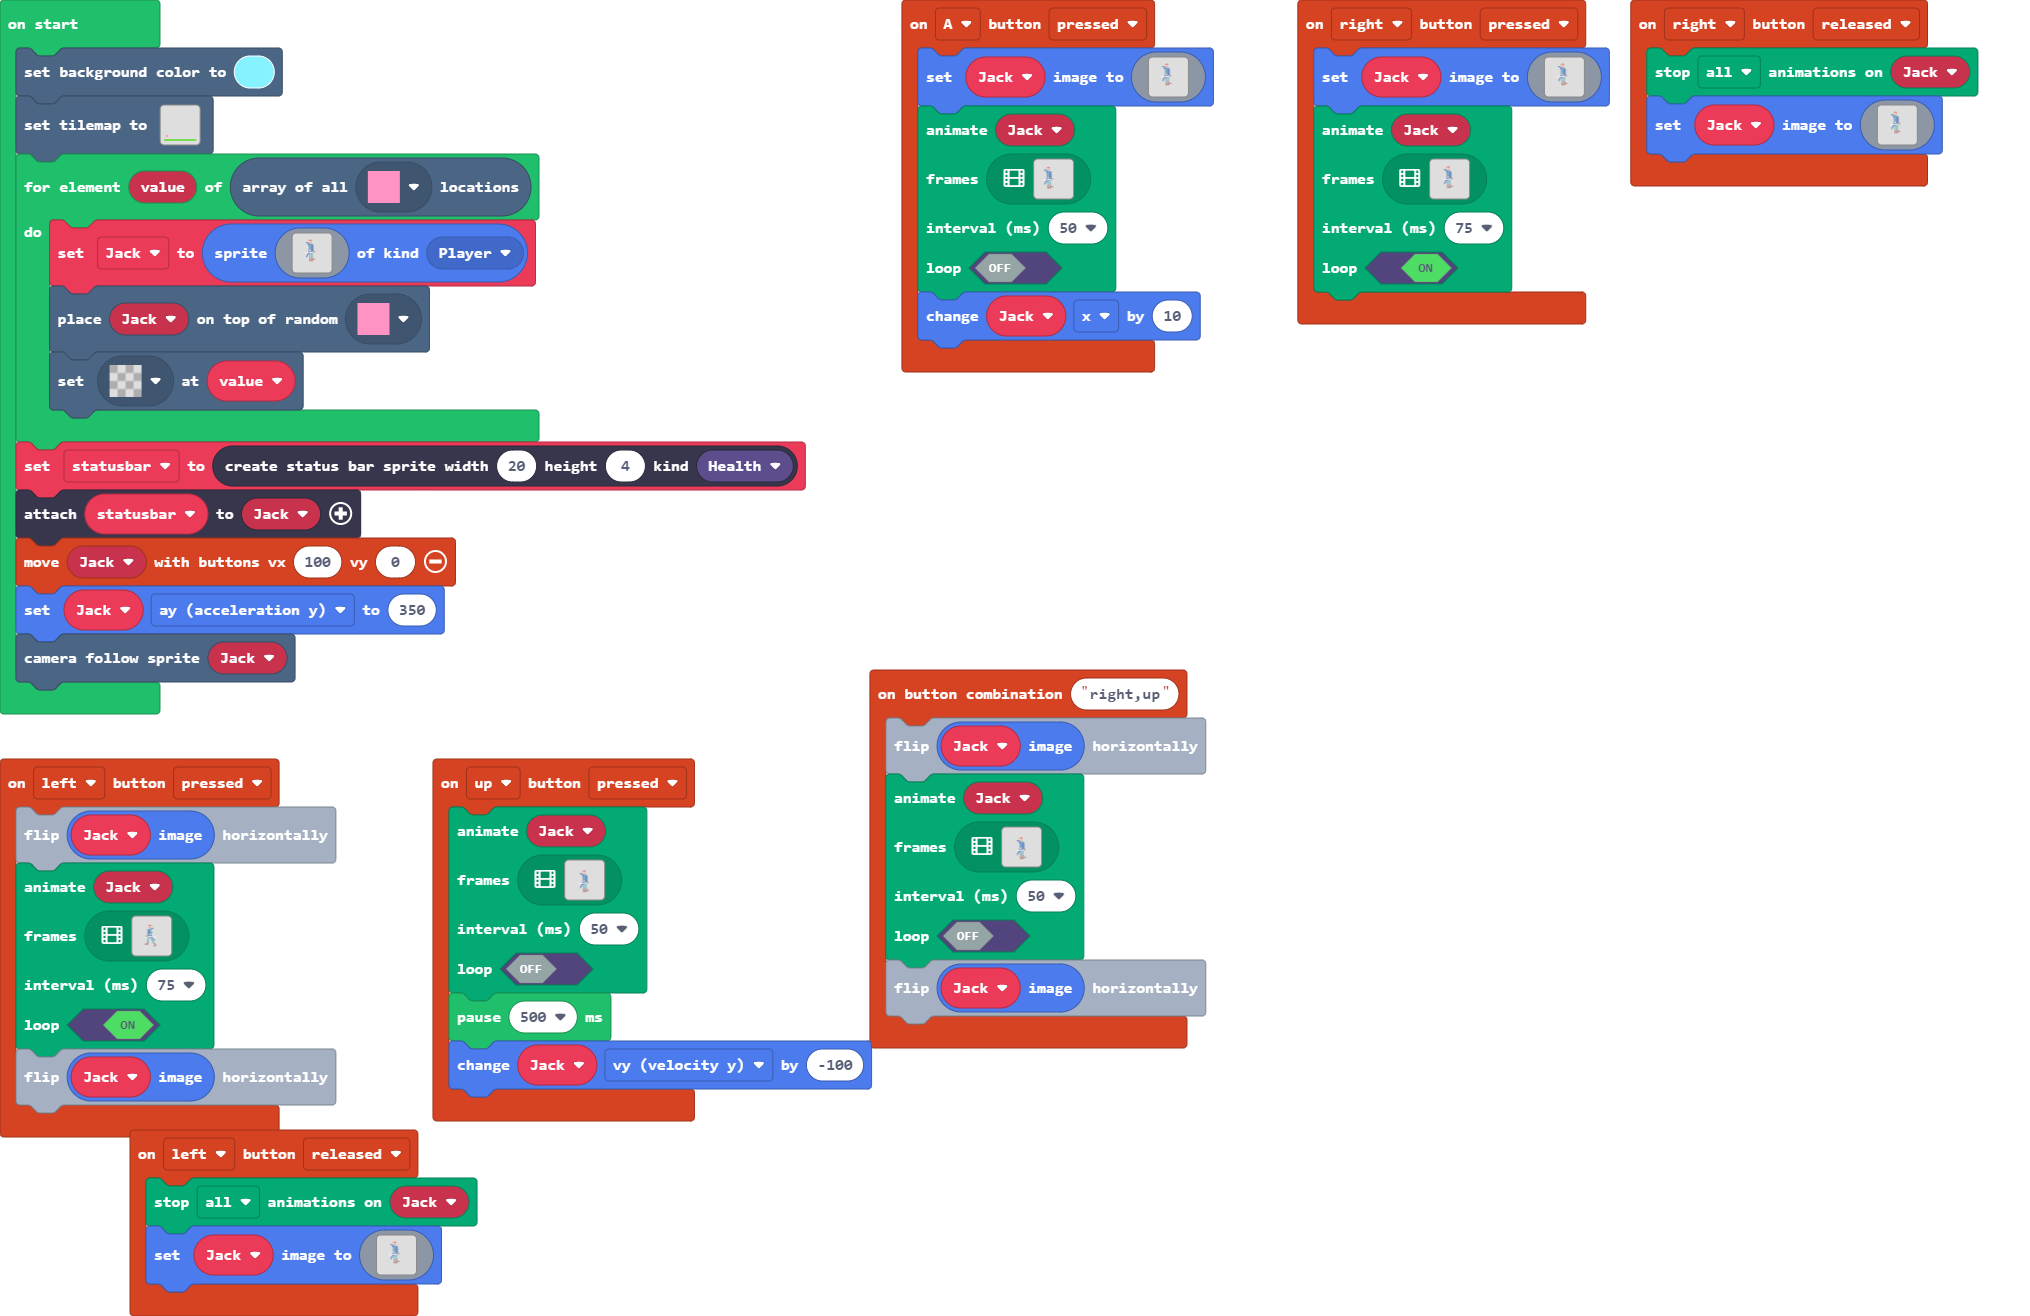
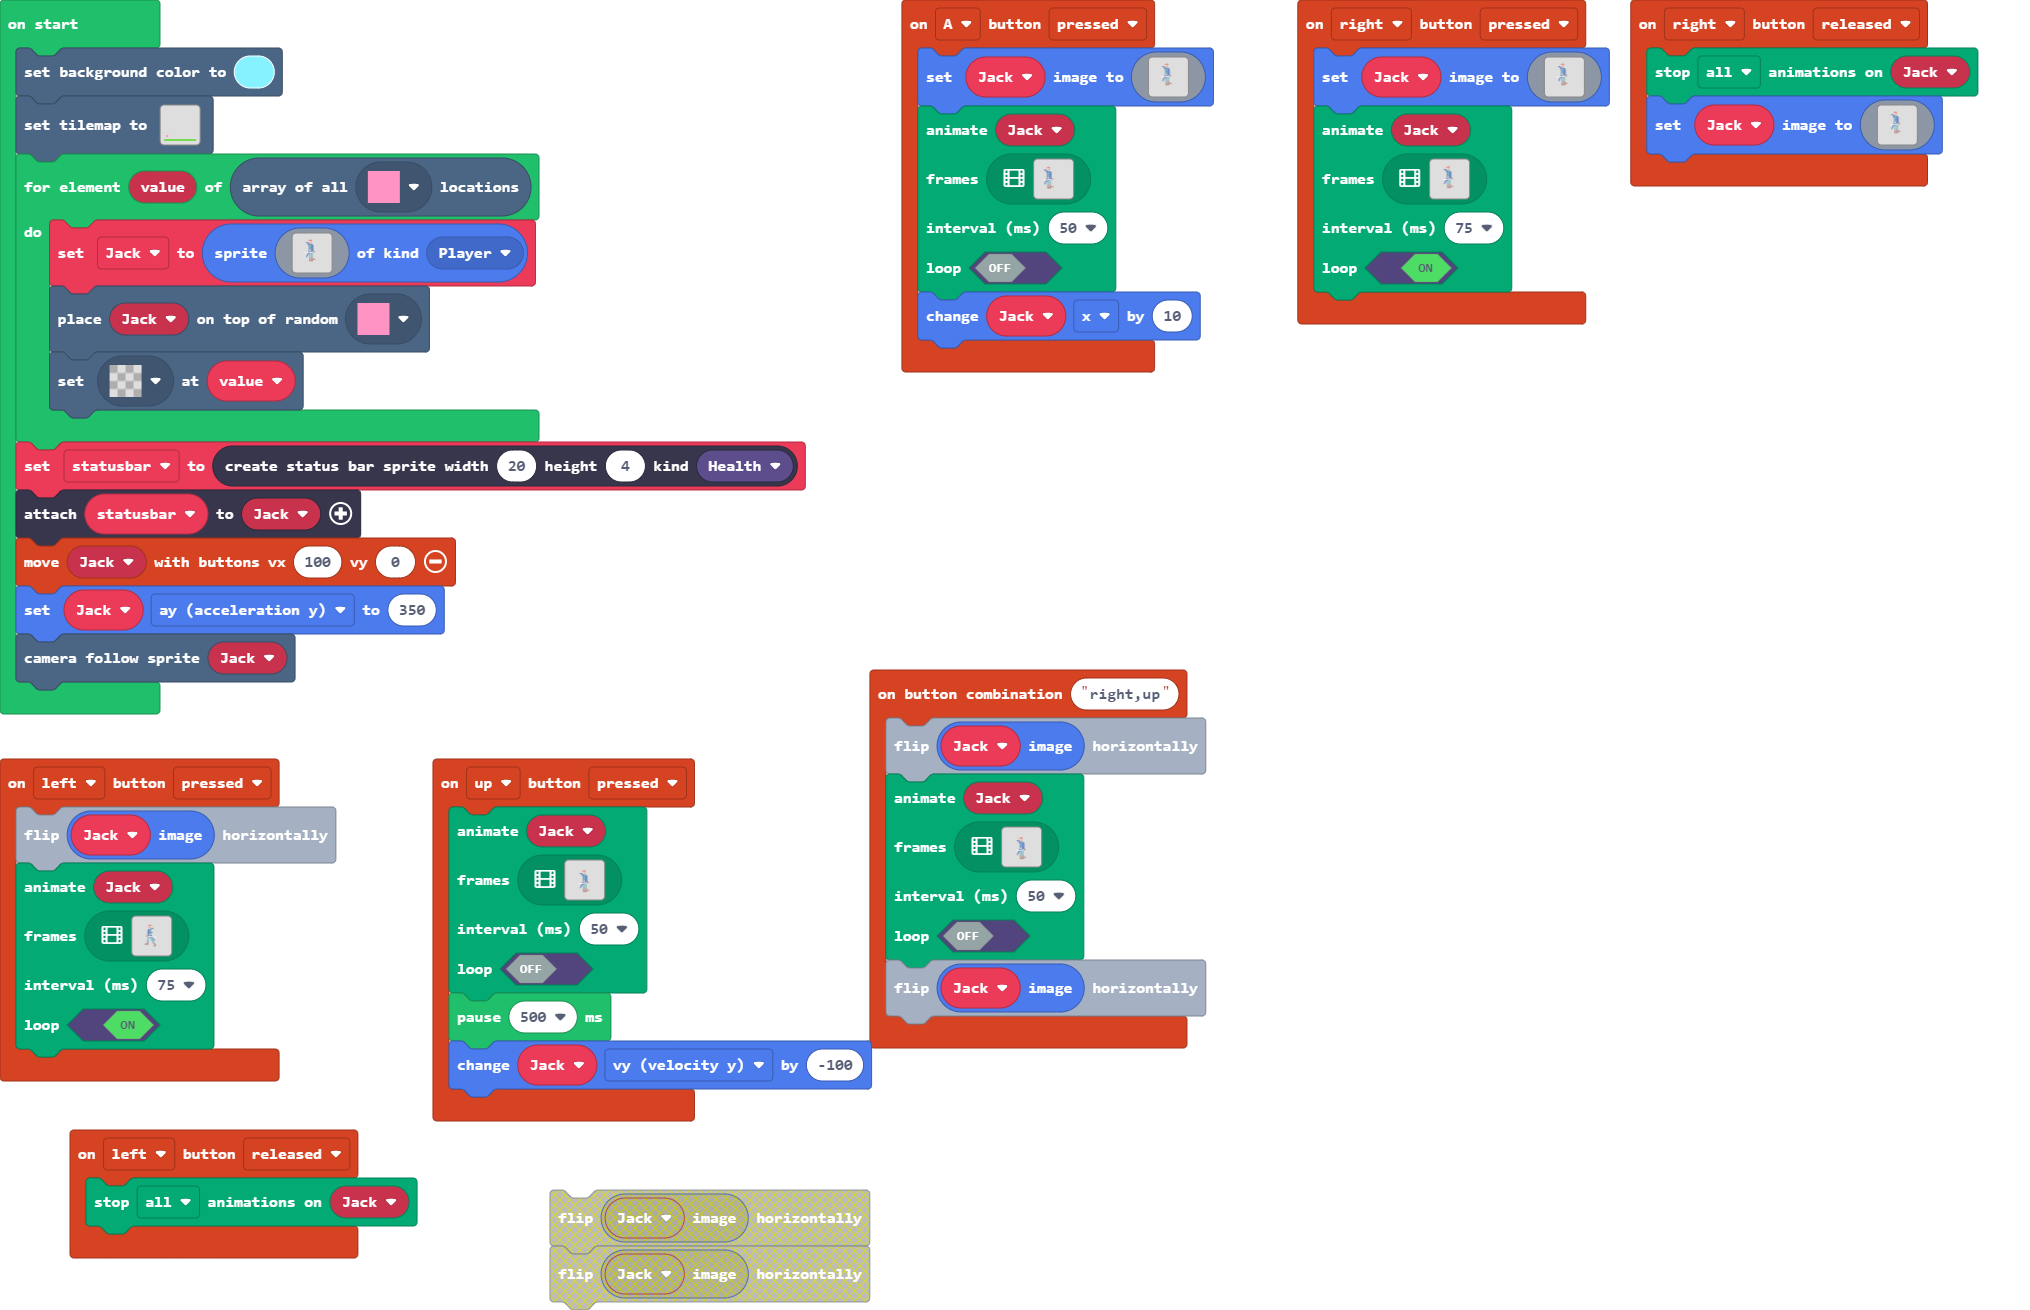
Update pxt.json, main.blocks, main.ts, main.py

diff --git a/main.ts b/main.ts
@@ -3373,7 +3373,6 @@ controller.left.onEvent(ControllerButtonEvent.Pressed, function () {
     75,
     true
     )
-    Jack.image.flipX()
 })
 controller.right.onEvent(ControllerButtonEvent.Released, function () {
     animation.stopAnimation(animation.AnimationTypes.All, Jack)
@@ -3457,83 +3456,6 @@ controller.right.onEvent(ControllerButtonEvent.Released, function () {
 })
 controller.left.onEvent(ControllerButtonEvent.Released, function () {
     animation.stopAnimation(animation.AnimationTypes.All, Jack)
-    Jack.setImage(img`
-        ..................................................
-        ..................................................
-        ..................................................
-        ..................................................
-        ..................................................
-        ..................................................
-        ....................2222..........................
-        .................2.222222.........................
-        ..................2222222.........................
-        .................2.dddd8d.........................
-        ...................dddddd.........................
-        ...................ddd444.........................
-        ............8888...444444.........................
-        ...........888888...4444..........................
-        ...........8..8888...ddd..........................
-        ...............88888.ddd..........................
-        ................8888888888........................
-        ................888886688888......................
-        ................888866668888......................
-        .................888666688888.....................
-        ..................88666688888.....................
-        ..................88666888888.....................
-        ..................88666888888.....................
-        ..................88666888888.....................
-        ..................88666888888.....................
-        ..................88666888888.....................
-        ..................88666888888.....................
-        ..................88666888888.....................
-        ..................88666888888.....................
-        ..................88d6d888888.....................
-        ..................88ddd888888.....................
-        ..................8dddd888888.....................
-        .................88dddd888888ee...................
-        .................888ddd88888e..e..................
-        .................88888888111eeee..................
-        ........1........88111111111eeee..................
-        ........1111111111111111116.......................
-        .........11111111118888.666.......................
-        ..........1111.8888886..666.......................
-        ..............88888666..666.......................
-        ..............888..666..666.......................
-        ..............888..666..666.......................
-        .............888...666..666.......................
-        .............888...666..666.......................
-        ............888....666..666.......................
-        ............888....666..666.......................
-        ............88.....666..666.......................
-        ............8......666..eee.......................
-        ...................666..eee.......................
-        ...................eee..eee.......................
-        ...................eee..eee.......................
-        ...................eee..eeeeeeee..................
-        ...................eee..eeeeeeeee.................
-        ...................eee..eee.ee.ee.................
-        ...................eeeeeeee.......................
-        ...................eeeeeeeee......................
-        ...................eee.ee.ee......................
-        ..................................................
-        ..................................................
-        ..................................................
-        ..................................................
-        ..................................................
-        ..................................................
-        ..................................................
-        ..................................................
-        ..................................................
-        ..................................................
-        ..................................................
-        ..................................................
-        ..................................................
-        ..................................................
-        ..................................................
-        ..................................................
-        ..................................................
-        ..................................................
-        `)
 })
 controller.combos.attachCombo("right,up", function () {
     Jack.image.flipX()

diff --git a/main.py b/main.py
@@ -3410,7 +3410,6 @@ def on_left_pressed():
             """)],
         75,
         True)
-    Jack.image.flip_x()
 controller.left.on_event(ControllerButtonEvent.PRESSED, on_left_pressed)
 
 def on_right_released():
@@ -3496,83 +3495,6 @@ controller.right.on_event(ControllerButtonEvent.RELEASED, on_right_released)
 
 def on_left_released():
     animation.stop_animation(animation.AnimationTypes.ALL, Jack)
-    Jack.set_image(img("""
-        ..................................................
-                ..................................................
-                ..................................................
-                ..................................................
-                ..................................................
-                ..................................................
-                ....................2222..........................
-                .................2.222222.........................
-                ..................2222222.........................
-                .................2.dddd8d.........................
-                ...................dddddd.........................
-                ...................ddd444.........................
-                ............8888...444444.........................
-                ...........888888...4444..........................
-                ...........8..8888...ddd..........................
-                ...............88888.ddd..........................
-                ................8888888888........................
-                ................888886688888......................
-                ................888866668888......................
-                .................888666688888.....................
-                ..................88666688888.....................
-                ..................88666888888.....................
-                ..................88666888888.....................
-                ..................88666888888.....................
-                ..................88666888888.....................
-                ..................88666888888.....................
-                ..................88666888888.....................
-                ..................88666888888.....................
-                ..................88666888888.....................
-                ..................88d6d888888.....................
-                ..................88ddd888888.....................
-                ..................8dddd888888.....................
-                .................88dddd888888ee...................
-                .................888ddd88888e..e..................
-                .................88888888111eeee..................
-                ........1........88111111111eeee..................
-                ........1111111111111111116.......................
-                .........11111111118888.666.......................
-                ..........1111.8888886..666.......................
-                ..............88888666..666.......................
-                ..............888..666..666.......................
-                ..............888..666..666.......................
-                .............888...666..666.......................
-                .............888...666..666.......................
-                ............888....666..666.......................
-                ............888....666..666.......................
-                ............88.....666..666.......................
-                ............8......666..eee.......................
-                ...................666..eee.......................
-                ...................eee..eee.......................
-                ...................eee..eee.......................
-                ...................eee..eeeeeeee..................
-                ...................eee..eeeeeeeee.................
-                ...................eee..eee.ee.ee.................
-                ...................eeeeeeee.......................
-                ...................eeeeeeeee......................
-                ...................eee.ee.ee......................
-                ..................................................
-                ..................................................
-                ..................................................
-                ..................................................
-                ..................................................
-                ..................................................
-                ..................................................
-                ..................................................
-                ..................................................
-                ..................................................
-                ..................................................
-                ..................................................
-                ..................................................
-                ..................................................
-                ..................................................
-                ..................................................
-                ..................................................
-                ..................................................
-    """))
 controller.left.on_event(ControllerButtonEvent.RELEASED, on_left_released)
 
 def on_combos_attach_combo():
